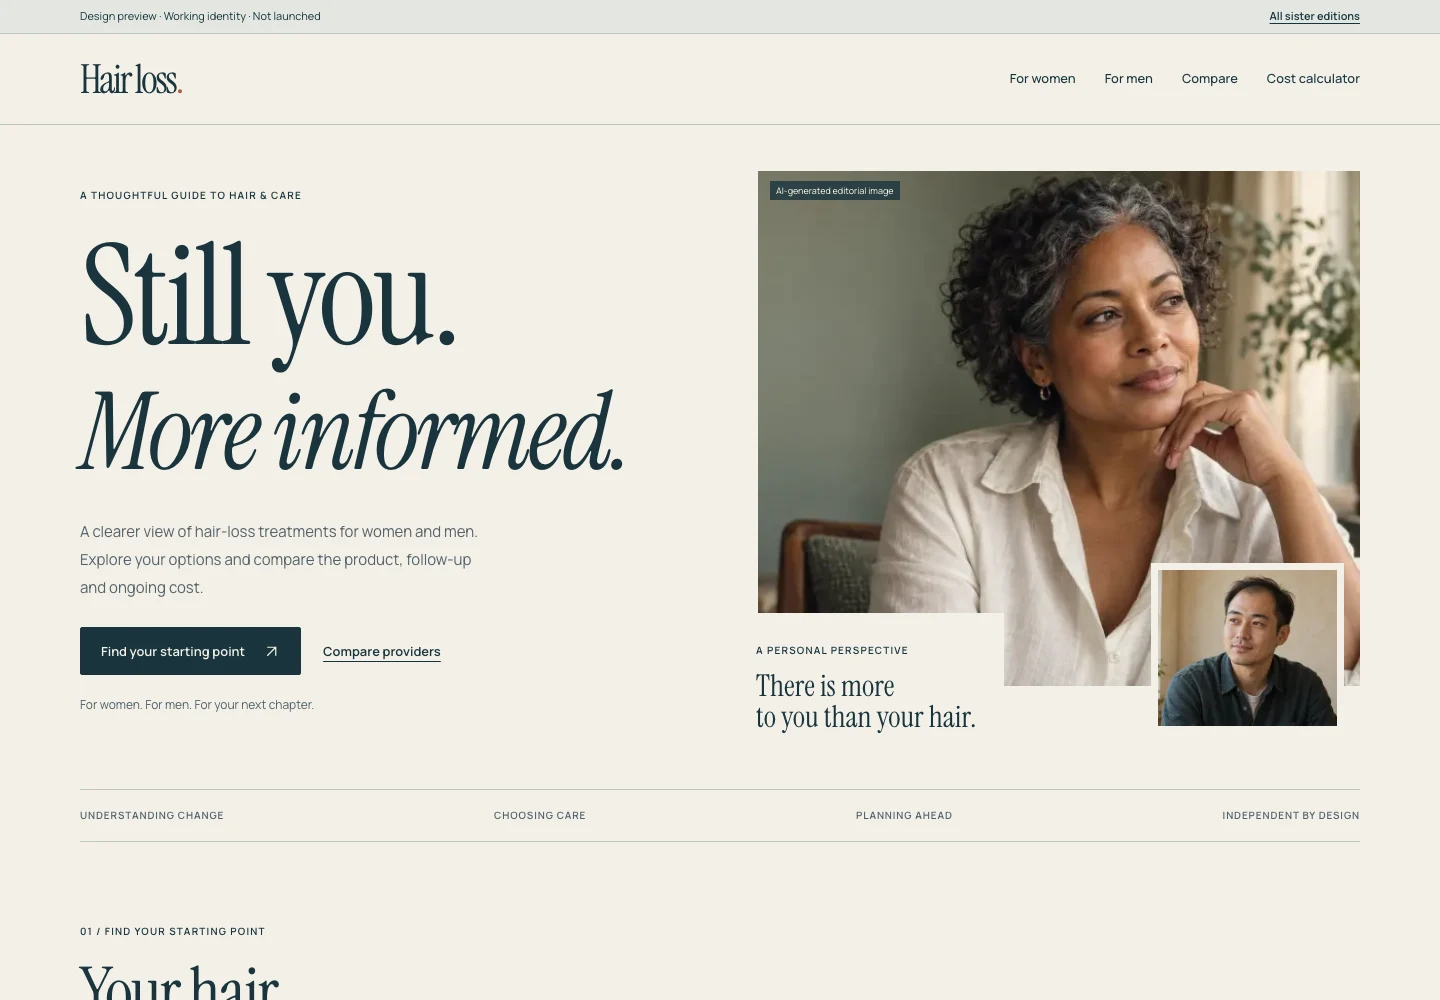
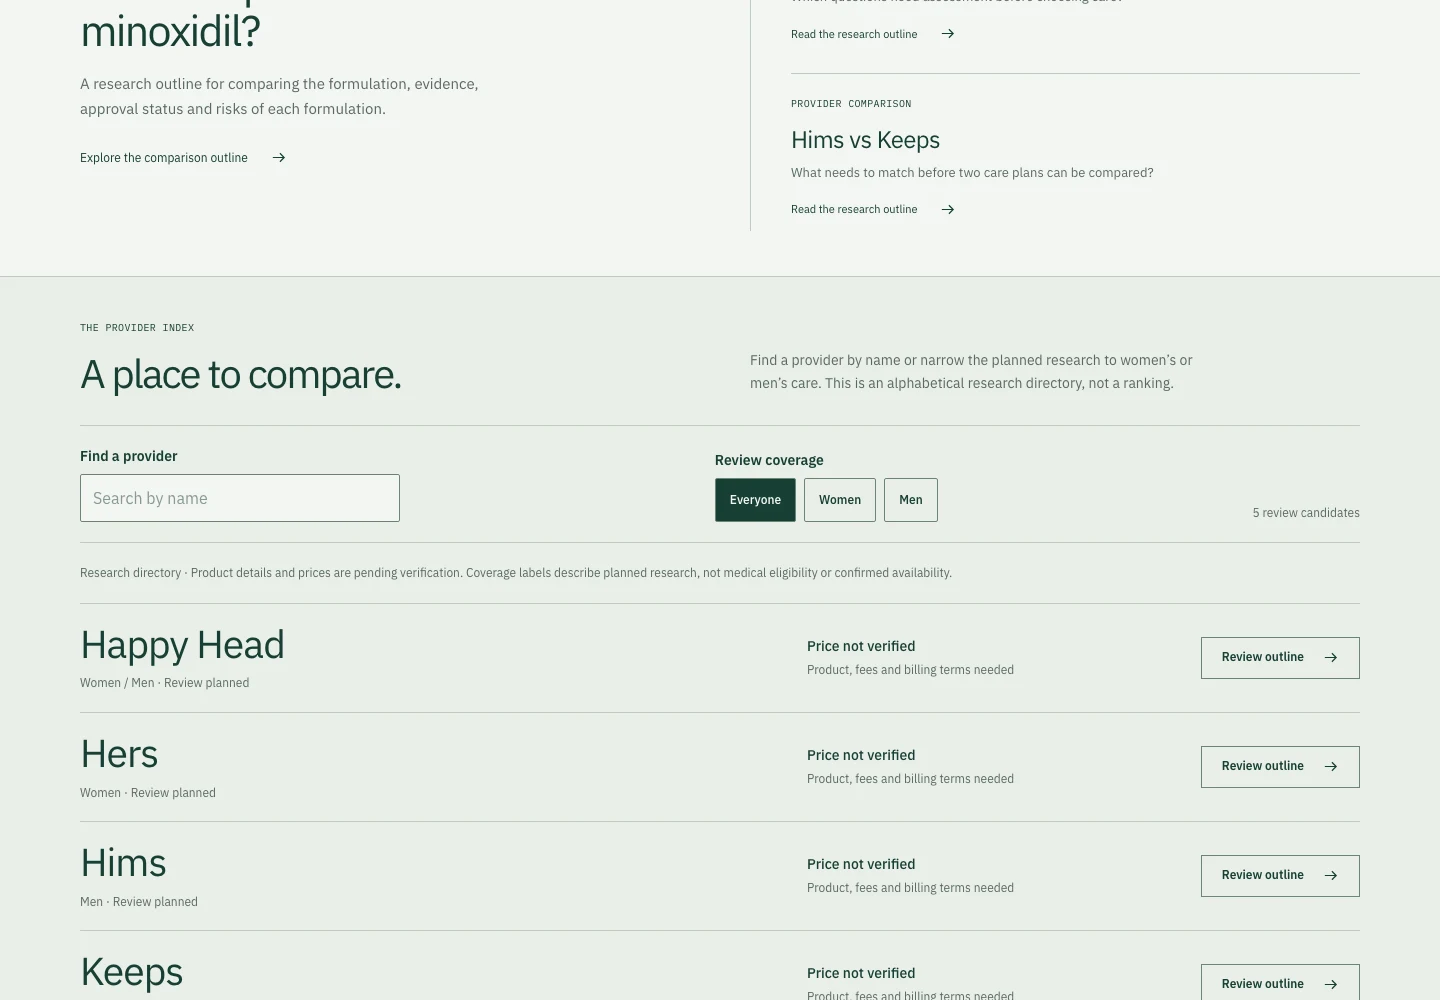
Refresh hair loss thumbnail from the redesigned preview

diff --git a/components/thumbnails/HealthScaffoldThumb.tsx b/components/thumbnails/HealthScaffoldThumb.tsx
@@ -5,7 +5,7 @@ import { comparisonScaffolds } from "@/lib/portfolio-development";
 export function HealthScaffoldThumb({ edition }: { edition: "hair" | "desire" }) {
   const project = comparisonScaffolds.find(item => item.slug === (edition === "hair" ? "hair-index" : "desire-index"))!;
   return <figure>
-    <Image src={`/images/health-previews/${edition}.webp`} width={1440} height={1000} sizes="(max-width: 640px) 90vw, 384px" alt={`${project.name} homepage preview with ${edition === "hair" ? "editorial serif typography, portraits and women’s and men’s care pathways" : "editorial typography, a sexual-health topic index and a care-cost tool"}`} className="h-auto w-full rounded-lg border border-border" />
+    <Image src={`/images/health-previews/${edition}.webp`} width={1440} height={1000} sizes="(max-width: 640px) 90vw, 384px" alt={`${project.name} homepage preview with ${edition === "hair" ? "deep-green typography, equal women’s and men’s care paths and a filterable provider index" : "editorial typography, a sexual-health topic index and a care-cost tool"}`} className="h-auto w-full rounded-lg border border-border" />
     <figcaption className="mt-2 text-[11px] leading-relaxed text-muted">Homepage preview. Final name undecided.</figcaption>
   </figure>;
 }
